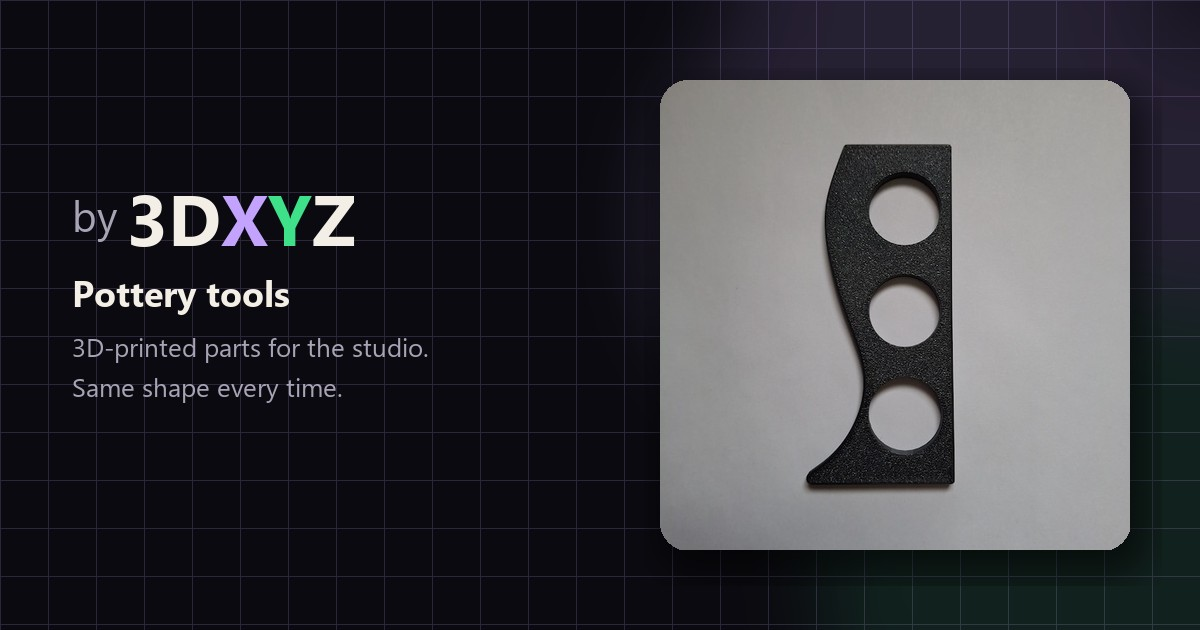
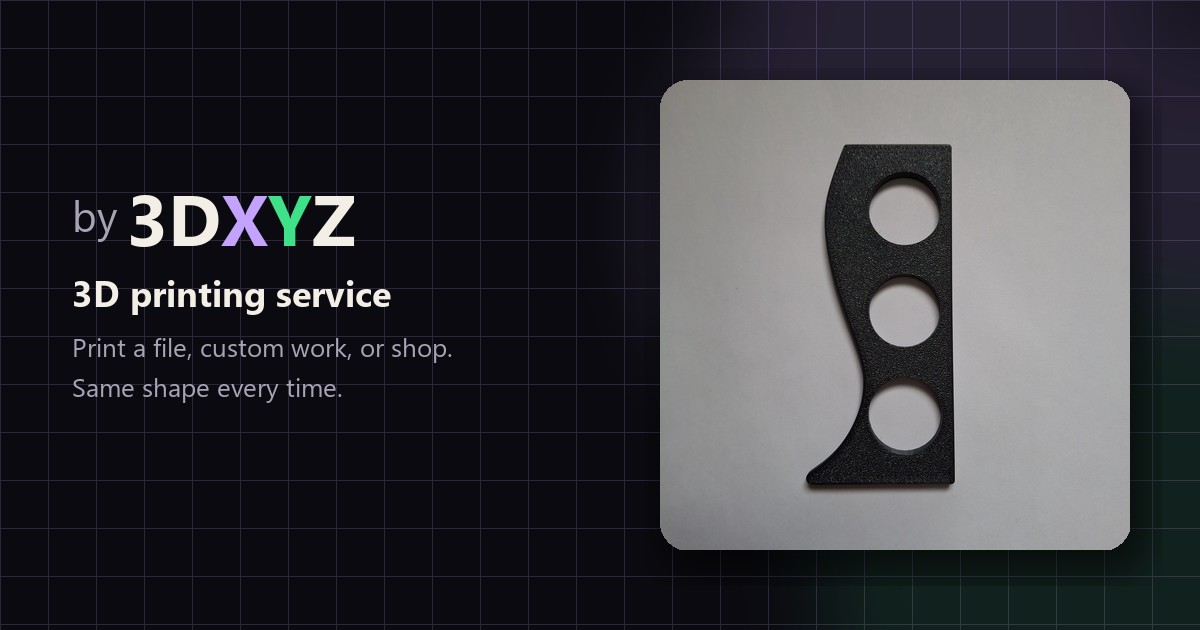
Update the site link preview to print service, not pottery brand.

Changed region(s): [[0.0617, 0.4222, 0.3392, 0.5127], [0.0617, 0.5429, 0.37, 0.573]]

diff --git a/scripts/share-image.py b/scripts/share-image.py
@@ -77,8 +77,8 @@ def main() -> None:
     x += int(draw.textlength("Y", font=display_b))
     draw.text((x, y), "Z", font=display_b, fill=INK)
 
-    draw.text((72, 268), "Pottery tools", font=sub, fill=INK)
-    draw.text((72, 328), "3D-printed parts for the studio.", font=body, fill=INK_SOFT)
+    draw.text((72, 268), "3D printing service", font=sub, fill=INK)
+    draw.text((72, 328), "Print a file, custom work, or shop.", font=body, fill=INK_SOFT)
     draw.text((72, 368), "Same shape every time.", font=body, fill=INK_SOFT)
 
     OUT.parent.mkdir(parents=True, exist_ok=True)
